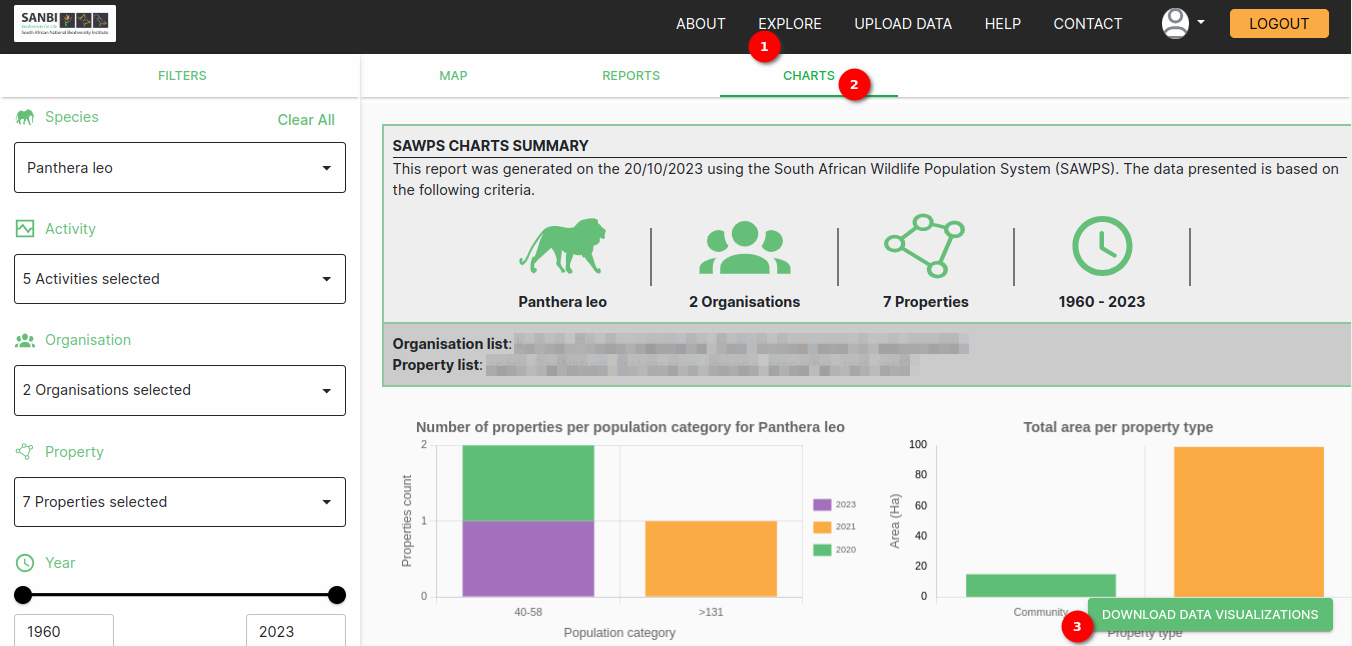
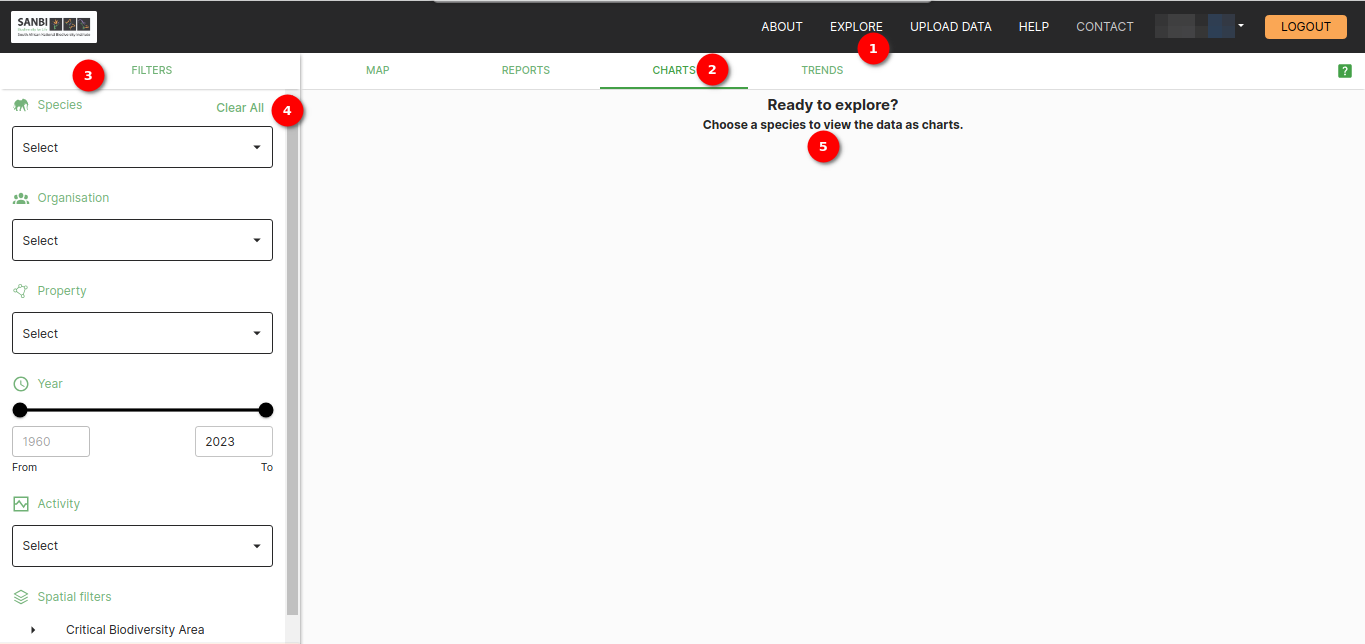
Update chart documentation

diff --git a/docs/src/user/manual/explore/charts.md b/docs/src/user/manual/explore/charts.md
@@ -15,40 +15,192 @@ context_id: ZSVG5K6yFRsQVQF5WQFqJR
 
 The `Charts` tab is a powerful tool for visualising data through various charts and graphs. This documentation outlines the functionality of the `Download Data Visualisation` feature, which allows the user to download the charts presented on the page.
 
-## Charts Page
+## Charts Tab
 
 ![Charts Page](./img/charts-1.png)
 
-1. **Explore**: By clicking on the `EXPLORE` on the navigation bar the user will be able to see the option for the Charts.
+1. **Explore**: To access the Charts, click on the `EXPLORE` option in the navigation bar.
 
-2. **Charts**: By clicking on the `CHARTS` tab, the user will be able to see the various charts. The `Charts` tab offers a variety of charts for data visualisation.
+2. **Charts**: Navigate to the `CHARTS` tab to explore a variety of charts available for data visualisation.
+
+3. **Filters**: Enhance chart visualisation by utilising the available filters for more precise data representation.
+
+4. **Clear All**: Click on `Clear All` to remove all applied filters and reset the chart view.
+
+5. **Message**: A helpful and informative message prompts users to explore and view charts.
 
 3. **Download Data Visualisation**: The `DOWNLOAD DATA VISUALISATION` button is a convenient feature that enables the user to download the charts and visualisations displayed on the page.
+# Topper
 
-## Usage
+![Topper](./img/charts-5.png)
 
-To utilise the `Download Data Visualisation` functionality, follow these steps:
+1. **Selected Species**: Indicates the currently chosen species.
 
-- Navigate to the `Charts Page` where the user can visualise their data using charts and graphs.
+2. **Species Icon**: Displays the icon representing the selected species along with its scientific name.
 
-- Locate the `DOWNLOAD DATA VISUALISATION` button, usually placed in a prominent position on the page.
+3. **Lists**: Presents a comprehensive list of the selected species, organisations, properties, and activities. This section provides an overview of the elements currently chosen.
 
-- Click on the button to initiate the download process.
+4. **DOWNLOAD DATA VISUALISATION**: The `DOWNLOAD DATA VISUALISATION` button serves as a convenient feature, allowing users to download the charts and visualisations presented on the current page. This functionality provides users with the option to retain and share the visualised data for further analysis or documentation.
 
-## Charts On Charts Page
-The charts shown to user are configurable via group permission in the Group Table in [Django Admin](../../../administrator/manual/django-table.md).
+# Charts
 
-![Charts On Charts Page](./img/charts-2.png)
+## Number of properties per population category (count) of species for year chart
 
-### Property Count Per Category Charts
-These charts show property count per category (population size, property area, area available to species, 
-and population density). The colours are configurable via Property Type page in [Django Admin](../../../administrator/manual/django-admin.md) 
-![Property count per category](./img/charts-4.png)
+![Number of properties per population category chart (count)](./img/charts-6.png)
 
-## Downloaded Charts PDF
+1. **Chart Title**: The chart title displays the title of the chart, including the year and common name of the selected species. This provides users with key information about the context and scope of the chart.
 
-![Downloaded Charts PDF](./img/charts-3.png)
+2. **Tooltip**: The tooltip feature provides additional details about each data point on the chart. It specifically shows the property type along with corresponding colors. Users can interact with the chart by clicking on the name of a property type in the Tooltip, enabling them to selectively remove bars from the chart. This interactive functionality allows users to focus on and explore specific property types of their choice within the chart.
 
-## Summary
+    ![Chart with Specific Bars](./img/charts-7.png)
 
-The `Download Data Visualisation` functionality on the Charts Page is a valuable feature for saving data visualisations. It allows the user to capture insights presented in charts, making it easier to share and use the data for various purposes, including reporting, analysis, and collaboration with others.
+3. **Population count Range**: This feature signifies the range of population counts depicted on the chart. It provides users with information about the span of population numbers represented in the visual data.
+
+4. **Information Icon**: Hover over the information icon to access details about the chart.
+
+5. **Download Icon**: Click the download icon to save the currently displayed chart.
+
+    ![Downloaded Chart](./img/charts-8.png)
+
+6. **Bars**: These represent the population distribution. Users can hover over each bar to access information about the property type, population range, and the specific count of the property of that type.
+
+## Number of properties per population category (population density) of species for year chart
+
+![Number of properties per population category chart (population density)](./img/charts-9.png)
+
+1. **Chart Title**: The chart title displays the title of the chart, including the year and common name of the selected species. This provides users with key information about the context and scope of the chart.
+
+2. **Tooltip**: The tooltip feature provides additional details about each data point on the chart. It specifically shows the property type along with corresponding colors. Users can interact with the chart by clicking on the name of a property type in the Tooltip, enabling them to selectively remove bars from the chart. This interactive functionality allows users to focus on and explore specific property types of their choice within the chart.
+
+    ![Chart with Specific Bars](./img/charts-10.png)
+
+3. **Population Density Range**: This element denotes the extent of population density showcased on the chart. It offers users information about the range of population densities represented in the visual data.
+
+4. **Information Icon**: Hover over the information icon to access details about the chart.
+
+5. **Download Icon**: Click the download icon to save the currently displayed chart.
+
+    ![Downloaded Chart](./img/charts-11.png)
+
+6. **Bars**: These bars represent the distribution of properties based on different population density categories. Users can hover over each bar to access information about the property type, the corresponding population range, and the specific count of properties within that category.
+
+## Number of properties per categories of area (ha) for species for year chart
+
+![Number of properties per categories of area (ha)](./img/charts-12.png)
+
+1. **Chart Title**: The chart title displays the title of the chart, including the year and common name of the selected species. This provides users with key information about the context and scope of the chart.
+
+2. **Tooltip**: The tooltip feature provides additional details about each data point on the chart. It specifically shows the property type along with corresponding colors. Users can interact with the chart by clicking on the name of a property type in the Tooltip, enabling them to selectively remove bars from the chart. This interactive functionality allows users to focus on and explore specific property types of their choice within the chart.
+
+    ![Chart with Specific Bars](./img/charts-13.png)
+
+3. **Area Size Range**: This feature illustrates the span of area sizes presented on the chart. It provides users with information about the range of different area sizes included in the visual representation.
+
+4. **Information Icon**: Hover over the information icon to access details about the chart.
+
+5. **Download Icon**: Click the download icon to save the currently displayed chart.
+
+    ![Downloaded Chart](./img/charts-14.png)
+
+6. **Bars**: These bars represent the distribution of properties based on different area size categories. Users can hover over each bar to access information about the property type, the corresponding population range, and the specific count of properties within that category.
+
+## Number of properties per categories of area (ha) available to species for year chart
+
+![Number of properties per categories of area (ha) available to species](./img/charts-15.png)
+
+1. **Chart Title**: The chart title displays the title of the chart, including the year and common name of the selected species. This provides users with key information about the context and scope of the chart.
+
+2. **Tooltip**: The tooltip feature provides additional details about each data point on the chart. It specifically shows the property type along with corresponding colors. Users can interact with the chart by clicking on the name of a property type in the Tooltip, enabling them to selectively remove bars from the chart. This interactive functionality allows users to focus on and explore specific property types of their choice within the chart.
+
+    ![Chart with Specific Bars](./img/charts-16.png)
+
+3. **Area Available Range**: This feature illustrates the span of available area sizes presented on the chart. It provides users with information about the range of different available area sizes included in the visual representation.
+
+4. **Information Icon**: Hover over the information icon to access details about the chart.
+
+5. **Download Icon**: Click the download icon to save the currently displayed chart.
+
+    ![Downloaded Chart](./img/charts-17.png)
+
+6. **Bars**: These bars represent the distribution of properties based on different area size categories. Users can hover over each bar to access information about the property type, the corresponding population range, and the specific count of properties within that category.
+
+## Total count of species per province chart
+
+![Total count of species per province chart](./img/charts-24.png)
+
+1. **Chart Title**: The chart title provides an overview of the total count of species across different provinces.
+
+2. **Bars**: These bars represent the total count of species for each province. Users can hover over each bar to access information about the specific province and its corresponding total count of species.
+
+3. **Province Name**: This chart component visually represents the diversity of provinces, with each bar corresponding to a specific province and its associated total count of species. It offers users a comprehensive understanding of the distribution of species across various regions.
+
+4. **Information Icon**: Users can hover over the information icon to access more details about the chart, providing context and additional insights.
+
+5. **Download Icon**: Clicking the download icon allows users to save the current chart for future reference or sharing.
+
+    ![Downloaded Chart](./img/charts-25.png)
+
+## Activity count as % of total population chart
+
+![Activity Chart](./img/charts-18.png)
+
+1. **Chart Title**: The chart title displays the title of the chart.
+
+2. **Tooltip**: The tooltip feature provides additional details about each data point on the chart. It specifically shows the activity type along with corresponding colors. Users can interact with the chart by clicking on the name of an activity type in the Tooltip, enabling them to selectively remove bars from the chart. This interactive functionality allows users to focus on and explore specific activity types of their choice within the chart.
+
+    ![Chart with Specific Bars](./img/charts-19.png)
+
+3. **n=count**: This shows the number of the species affected by the specific activity type
+
+4. **Information Icon**: Hover over the information icon to access details about the chart.
+
+5. **Download Icon**: Click the download icon to save the currently displayed chart.
+
+    ![Downloaded Chart](./img/charts-20.png)
+
+6. **Bars**: These bars represent the distribution of activities as a percentage of the total population. Users can hover over each bar to access information about the activity name, the corresponding percentage, and the specific count of that activity type.
+
+## Total count per population estimate category for species for year chart
+
+![Total count per population estimate category](./img/charts-21.png)
+
+1. **Chart Title**: The chart title provides an overview of the total count of species based on different population estimate categories in the year.
+
+2. **Tooltip**: A tooltip feature is available, allowing users to gather additional details for each data point on the chart. It provides insights into specific population estimate categories and facilitates interaction by enabling users to focus on particular areas of interest.
+
+    ![Chart with Specific Bars](./img/charts-22.png)
+
+3. **Pie Chart**: This chart component visually represents the diversity of Population Estimate Categories for species. Each slice of the pie corresponds to a specific estimate category, offering users a comprehensive understanding of the distribution.
+
+4. **Information Icon**: Hover over the information icon to access details about the chart.
+
+5. **Download Icon**: Click the download icon to save the currently displayed chart.
+
+    ![Downloaded Chart](./img/charts-23.png)
+
+## Mean and standard deviation of age classes for species chart
+
+![Mean and standard deviation of age classes for species chart](./img/charts-26.png)
+
+1. **Chart Title**: The chart title provides an overview of the mean and standard deviation of age classes for the specified species.
+
+2. **Tooltip**: A tooltip feature is available, allowing users to gather additional details for each data point on the chart. It provides insights into specific age classes, mean values, and standard deviations, facilitating interaction and focus on particular areas of interest.
+
+    ![Chart with Specific Bars](./img/charts-27.png)
+
+
+3. **Bars**: These data points represent the mean and standard deviation of age classes for the species. Users can hover over each point to access information about the specific age class, its mean value, and standard deviation.
+
+4. **Age Classes**: This chart component visually represents the distribution of age classes for the species. Each data point on the chart is associated with the mean and standard deviation of a particular age class, offering users a comprehensive understanding of the age structure.
+
+5. **Information Icon**: Users can hover over the information icon to access more details about the chart, providing context and additional insights.
+
+6. **Download Icon**: Clicking the download icon allows users to save the current chart for future reference or sharing.
+
+    ![Downloaded Chart](./img/charts-28.png)
+
+# Summary
+
+Welcome to the `Charts Page`, where the site presents visual insights into various aspects of data. Explore the distribution of properties based on area sizes and population categories, understand the total count of species across provinces, and delve into the age structure of a specified species with mean and standard deviation values for different age classes. While these charts offer a convenient way to comprehend complex information.
+
+> DISCLAIMER: Some of the images in the manual may vary slightly from what you see on the platform due to continuous updates to the platform.
